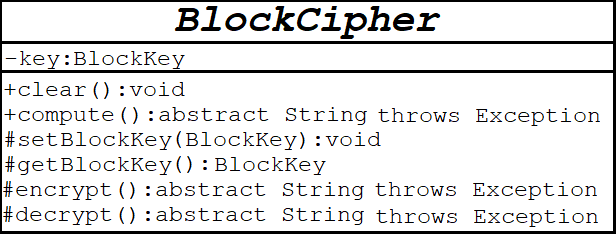
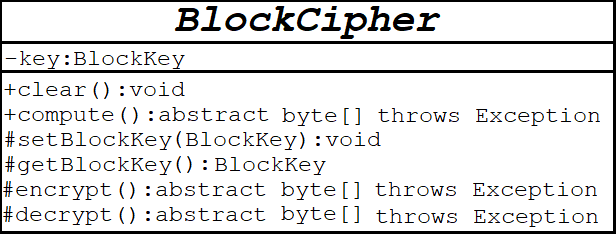
Made some changes.  Changes not fully complete, making backup of changes on GitHub.

Changed region(s): [[0.4318, 0.7679, 0.6169, 0.9451], [0.4627, 0.443, 0.6169, 0.5316]]

diff --git a/Encryptor Decryptor File Encryption/src/Encryptor Decryptor File Ecryption/main.java b/Encryptor Decryptor File Encryption/src/Encryptor Decryptor File Ecryption/main.java
@@ -3,7 +3,9 @@ import CipherPackage.*;
 import java.util.Scanner;
 import java.io.File;
 import java.io.FileNotFoundException;
-import java.io.PrintWriter;
+import java.io.PrintWriter;//To remove.  
+import java.io.FileInputStream;
+import java.io.FileOutputStream;
 import java.io.UnsupportedEncodingException;
 import java.util.Base64;
 import javax.crypto.SecretKey;
@@ -351,7 +353,7 @@ public class main
 						System.out.println("Reading content of file to be encrypted.  ");
 						BlockCipher theCipher = new AESCipher(readFile(inputFileName), theKey, true);
 						System.out.println("Encrypting.  Please wait.  ");
-						String cipherText = theCipher.compute();
+						byte[] cipherText = theCipher.compute();
 						System.out.println("Creating new encrypted file.  ");
 						if(!writeFile(encryptedFileName, cipherText))
 							throw new Exception();
@@ -367,7 +369,7 @@ public class main
 						System.out.println("Reading content of the file to be encrypted.  ");
 						BlockCipher theCipher = new AESCipher(readFile(inputFileName), theKey, true);
 						System.out.println("Encrypting.  Please wait.  ");
-						String cipherText = theCipher.compute();
+						byte[] cipherText = theCipher.compute();
 						System.out.println("Creating new encrypted file.  ");
 						if(!writeFile(encryptedFileName, cipherText))
 							throw new Exception();
@@ -383,7 +385,7 @@ public class main
 						System.out.println("Reading content of the file to be encrypted.  ");
 						SubstitutionCipher theCipher = new AffineCipher(readFile(inputFileName), theKey, true);
 						System.out.println("Encrypting.  Please wait.  ");
-						String cipherText = "";
+						byte[] cipherText = "";
 						if(outputType == 1)
 							cipherText = theCipher.compute(true);
 						else
@@ -404,7 +406,7 @@ public class main
 						System.out.println(theKey.getKeyVal());
 						SubstitutionCipher theCipher = new CaeserCipher(readFile(inputFileName), theKey, true);
 						System.out.println("Encrypting.  Please wait.  ");
-						String cipherText = "";
+						byte[] cipherText = "";
 						if(outputType == 1)
 							cipherText = theCipher.compute(true);
 						else
@@ -421,12 +423,12 @@ public class main
 					case 5: //Create an encrypted file using One Time Pad
 					{
 						System.out.println("Reading the contents of the file to be encrypted.  ");
-						String fileContents = readFile(inputFileName);
+						byte[] fileContents = readFile(inputFileName);
 						int contentLength = fileContents.length();
 						OneTimePadKey theKey = new OneTimePadKey(contentLength);
 						OneTimePadCipher theCipher = new OneTimePadCipher(fileContents, theKey, true);
 						System.out.println("Encrypting.  Please wait.  ");
-						String cipherText = theCipher.compute(true);
+						byte[] cipherText = theCipher.compute(true);
 						System.out.println("Creating new encrypted file.  ");
 						if(!writeFile(encryptedFileName, cipherText))
 							throw new Exception();
@@ -446,7 +448,7 @@ public class main
 						System.out.println("Reading the contents of the file to be encrypted.  ");
 						RailFenceCipher theCipher = new RailFenceCipher(readFile(inputFileName), theKey, true);
 						System.out.println("Encrypting.  Please wait.  ");
-						String cipherText = "";
+						byte[] cipherText = "";
 						if(outputType == 1)
 							cipherText = theCipher.compute(true);
 						else
@@ -470,7 +472,7 @@ public class main
 						System.out.println("Reading the contents of the file to be encrypted.  ");
 						VigenereCipher theCipher = new VigenereCipher(readFile(inputFileName), theKey, true);
 						System.out.println("Encrypting.  Please wait.  ");
-						String cipherText = "";
+						byte[] cipherText = "";
 						if(usePunctuation == 1)
 							cipherText = theCipher.compute(true);
 						else
@@ -513,7 +515,7 @@ public class main
 						System.out.println("Reading contents of encrypted file.  ");
 						AESCipher theCipher = new AESCipher(readFile(inputFileName), theKey, false);
 						System.out.println("Decrypting the encrypted file contents.  ");
-						String plainText = theCipher.compute();
+						byte[] plainText = theCipher.compute();
 						System.out.println("Creating the plain text file.  ");
 						writeFile(decryptedFileName, plainText);
 					}
@@ -524,7 +526,7 @@ public class main
 						System.out.println("Reading contents of the encrypted file.  ");
 						AESCipher theCipher = new AESCipher(readFile(inputFileName), theKey, false);
 						System.out.println("Decrypting the encrypted file contents.  ");
-						String plainText = theCipher.compute();
+						byte[] plainText = theCipher.compute();
 						System.out.println("Creating the plain text file.  ");
 						writeFile(decryptedFileName, plainText);
 					}
@@ -535,7 +537,7 @@ public class main
 						System.out.println("Reading contents of the encrypted file.  ");
 						AffineCipher theCipher = new AffineCipher(readFile(inputFileName), theKey, false);
 						System.out.println("Decrypting the encrypted file contents.  ");
-						String plainText = theCipher.compute(encryptedTextType);
+						byte[] plainText = theCipher.compute(encryptedTextType);
 						System.out.println("Creating the plain text file.  ");
 						writeFile(decryptedFileName, plainText);
 					}
@@ -546,7 +548,7 @@ public class main
 						System.out.println("Reading contents of the encrypted file.  ");
 						CaeserCipher theCipher = new CaeserCipher(readFile(inputFileName), theKey, false);
 						System.out.println("Decrypting the encrypted file contents.  ");
-						String plainText = theCipher.compute(encryptedTextType);
+						byte[] plainText = theCipher.compute(encryptedTextType);
 						System.out.println("Creating the plain text file.  ");
 						writeFile(decryptedFileName, plainText);
 					}
@@ -557,7 +559,7 @@ public class main
 						System.out.println("Reading contents of the encrypted file.  ");
 						OneTimePadCipher theCipher = new OneTimePadCipher(readFile(inputFileName), theKey, false);
 						System.out.println("Decrypting the encrypted file contents.  ");
-						String plainText = theCipher.compute(true);
+						byte[] plainText = theCipher.compute(true);
 						System.out.println("Creating the plain text file.  ");
 						writeFile(decryptedFileName, plainText);
 					}
@@ -568,7 +570,7 @@ public class main
 						System.out.println("Reading contents of the encrypted file.  ");
 						RailFenceCipher theCipher = new RailFenceCipher(readFile(inputFileName), theKey, false);
 						System.out.println("Decrypting the encrypted file contents.  ");
-						String plainText = theCipher.compute(encryptedTextType);
+						byte[] plainText = theCipher.compute(encryptedTextType);
 						System.out.println("Creating the plain text file.  ");
 						writeFile(decryptedFileName, plainText);
 					}
@@ -579,7 +581,7 @@ public class main
 						System.out.println("Reading contents of the encrypted file.  ");
 						VigenereCipher theCipher = new VigenereCipher(readFile(inputFileName), theKey, false);
 						System.out.println("Decrypting the encrypted file contents.  ");
-						String plainText = theCipher.compute(encryptedTextType);
+						byte[] plainText = theCipher.compute(encryptedTextType);
 						System.out.println("Creating the plain text file.  ");
 						writeFile(decryptedFileName, plainText);
 					}
@@ -600,11 +602,11 @@ public class main
 	
 	private static byte[] readFile(String fileName)
 	{
-		String fileContents = "";
+		byte[] fileContents;
 		try
 		{
 			File fileToRead = new File(fileName);
-			Scanner fileReader = new Scanner(fileToRead, "UTF-16");
+			Scanner fileReader = new Scanner(fileToRead, "UTF-16"); //To remove.  
 			while(fileReader.hasNextLine())
 			{
 				fileContents = fileContents + fileReader.nextLine() + "\n";
@@ -641,7 +643,7 @@ public class main
 		try
 		{
 			File newFile = new File(fileName);
-			PrintWriter fileWriter = new PrintWriter(newFile, "UTF-16");
+			PrintWriter fileWriter = new PrintWriter(newFile, "UTF-16"); //To remove.  
 			fileWriter.print(contents);
 			fileWriter.close();
 			return true;

diff --git a/Encryptor Decryptor File Encryption/src/Encryptor Decryptor File Ecryption/CipherPackage/AESCipher.java b/Encryptor Decryptor File Encryption/src/Encryptor Decryptor File Ecryption/CipherPackage/AESCipher.java
@@ -3,7 +3,6 @@
  */
 package CipherPackage;
 
-import java.io.UnsupportedEncodingException;
 import java.security.InvalidKeyException;
 import CipherKeys.BlockKey;
 import javax.crypto.Cipher;
@@ -17,57 +16,21 @@ import javax.crypto.spec.IvParameterSpec;
  */
 public class AESCipher extends BlockCipher 
 {
-	
-	private byte[] rawCipherText = {0};
-	private byte[] rawPlainText = {0};
-	private String plainText;
-	private String cipherText;
+	private byte[] plainText;
+	private byte[] cipherText;
 	private boolean EnDecryptionMethod;
 	private boolean mode;
 
 	/**
 	 * 
 	 */
-	public AESCipher(String text, BlockKey key, boolean mode) 
+	public AESCipher(byte[] text, BlockKey key, boolean mode) 
 	{
 		this.mode = mode;
 		if(!mode) // Decryption.  
-		{
-			try 
-			{
-				rawCipherText = text.getBytes("UTF-16");
-			} 
-			catch (UnsupportedEncodingException e) 
-			{
-				// TODO Auto-generated catch block
-				e.printStackTrace();
-				System.out.println("Error could not interpret text.  ");
-				System.out.println("Fatal program error, programm will close in 10 seconds.  ");
-				for(int i = 0; i < 100000; i++)
-				{
-					i = i; // Do nothing.  
-				}
-				System.exit(1);
-			}
-		}
+			cipherText = text;
 		else
-		{
-			try
-			{
-				rawPlainText = text.getBytes("UTF-16");
-			}
-			catch(UnsupportedEncodingException e)
-			{
-				e.printStackTrace();
-				System.out.println("Error could not interpret text.  ");
-				System.out.println("Fatal program error, programm will close in 10 seconds.  ");
-				for(int i = 0; i < 100000; i++)
-				{
-					i = i; // Do nothing.  
-				}
-				System.exit(1);
-			}
-		}
+			plainText = text;
 		super.setBlockKey(key);
 		EnDecryptionMethod = key.getEnDecryptionMethod();
 	}
@@ -91,7 +54,7 @@ public class AESCipher extends BlockCipher
 			{
 				GCMParameterSpec parameterSpec = new GCMParameterSpec(getBlockKey().getAuthenticationTagLength(), getBlockKey().getIV());
 				cipher.init(Cipher.ENCRYPT_MODE, getBlockKey().getKey(), parameterSpec);
-				rawCipherText = cipher.doFinal(rawPlainText);
+				cipherText = cipher.doFinal(plainText);
 			}
 			catch(InvalidKeyException e)
 			{
@@ -115,7 +78,7 @@ public class AESCipher extends BlockCipher
 				SecretKeySpec keySpec = new SecretKeySpec(getBlockKey().getKey().getEncoded(), "AES");
 				IvParameterSpec ivSpec = new IvParameterSpec(getBlockKey().getIV());
 				cipher.init(Cipher.ENCRYPT_MODE, keySpec, ivSpec);
-				rawCipherText = cipher.doFinal(rawPlainText);
+				cipherText = cipher.doFinal(plainText);
 			}
 			catch(InvalidKeyException e)
 			{
@@ -131,7 +94,7 @@ public class AESCipher extends BlockCipher
 				throw new Exception();
 			}
 		}
-		return rawCipherText;
+		return cipherText;
 	}
 
 	@Override
@@ -147,6 +110,7 @@ public class AESCipher extends BlockCipher
 				System.out.println("size " + getBlockKey().getKey().getEncoded().length);
 				System.out.println(getBlockKey().getIV()[0] + "   stored version  " +  getBlockKey().getIV()[11]);
 				cipher.init(Cipher.DECRYPT_MODE, getBlockKey().getKey(), parameterSpec);
+				plainText = cipher.doFinal(cipherText);
 			}
 			catch(InvalidKeyException e)
 			{
@@ -171,7 +135,7 @@ public class AESCipher extends BlockCipher
 				SecretKeySpec keySpec = new SecretKeySpec(getBlockKey().getKey().getEncoded(), "AES");
 				IvParameterSpec ivSpec = new IvParameterSpec(getBlockKey().getIV());
 				cipher.init(Cipher.DECRYPT_MODE, keySpec, ivSpec);
-				rawPlainText = cipher.doFinal(rawCipherText);
+				plainText = cipher.doFinal(cipherText);
 			}
 			catch(InvalidKeyException e)
 			{
@@ -187,8 +151,8 @@ public class AESCipher extends BlockCipher
 				throw new Exception();
 			}
 		}
-		System.out.println(rawPlainText.length);
-		return rawPlainText;
+		System.out.println(plainText.length);
+		return plainText;
 	}
 
 }
